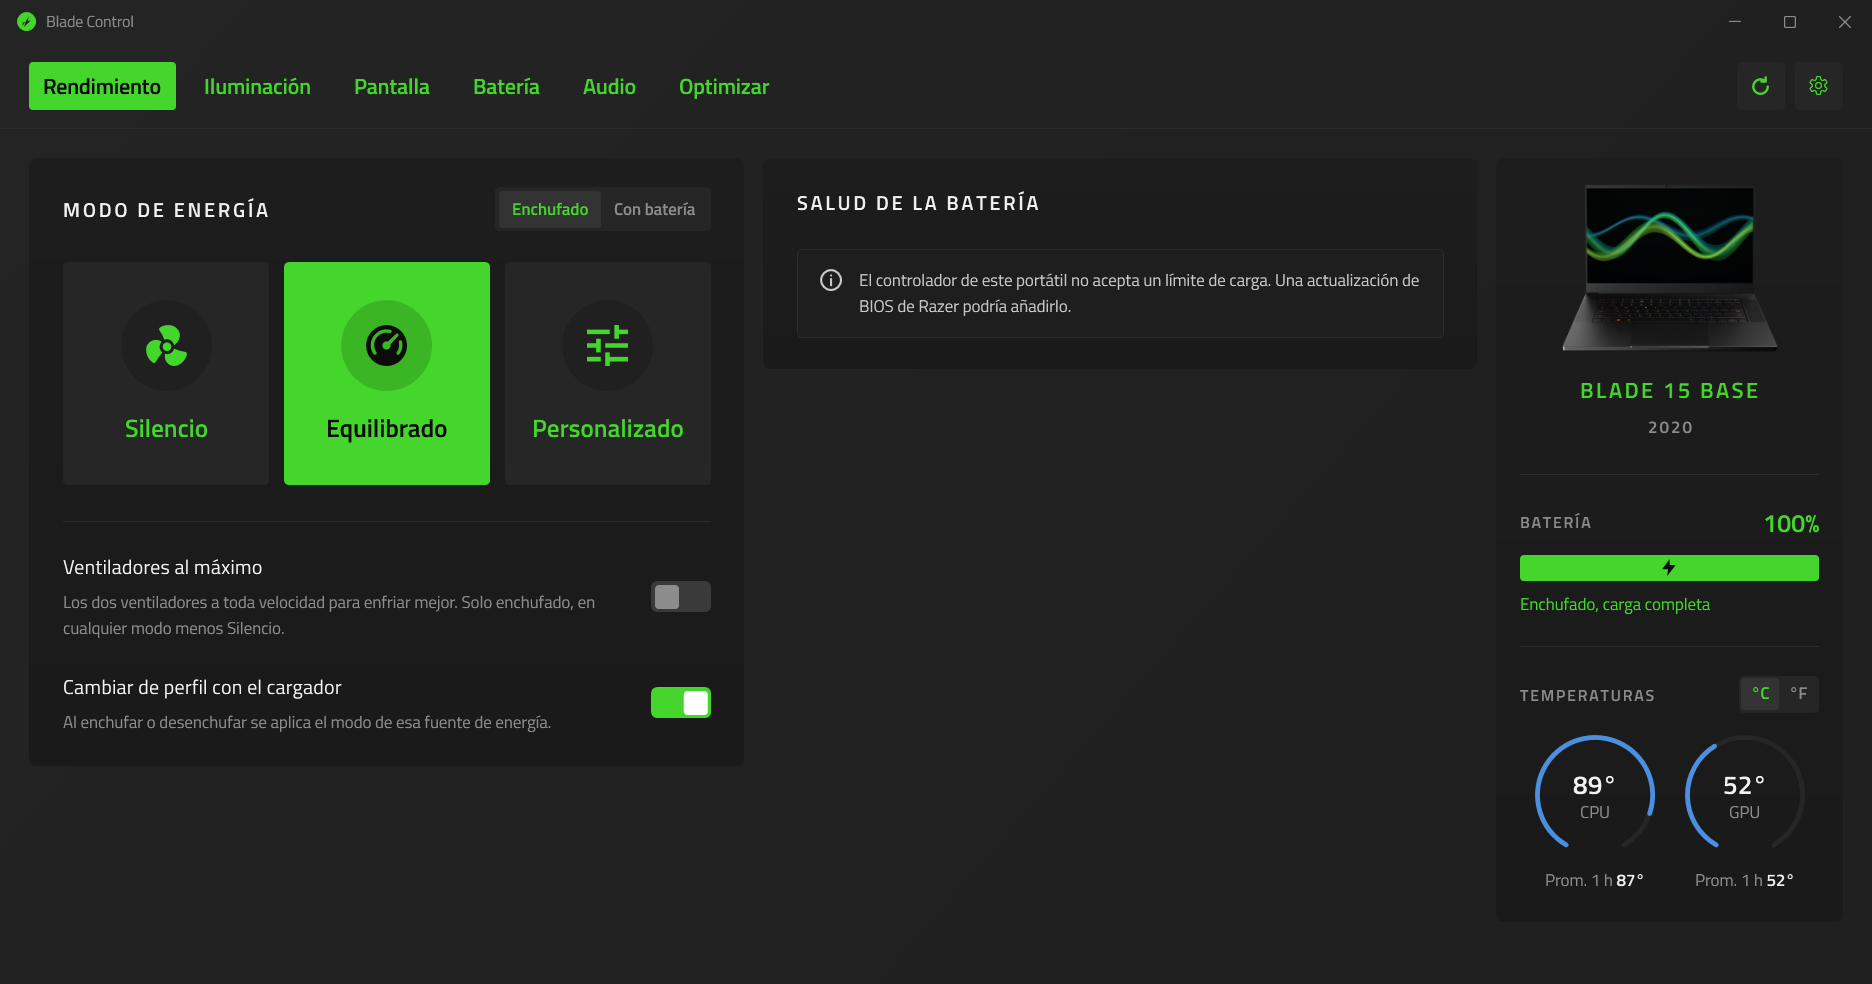
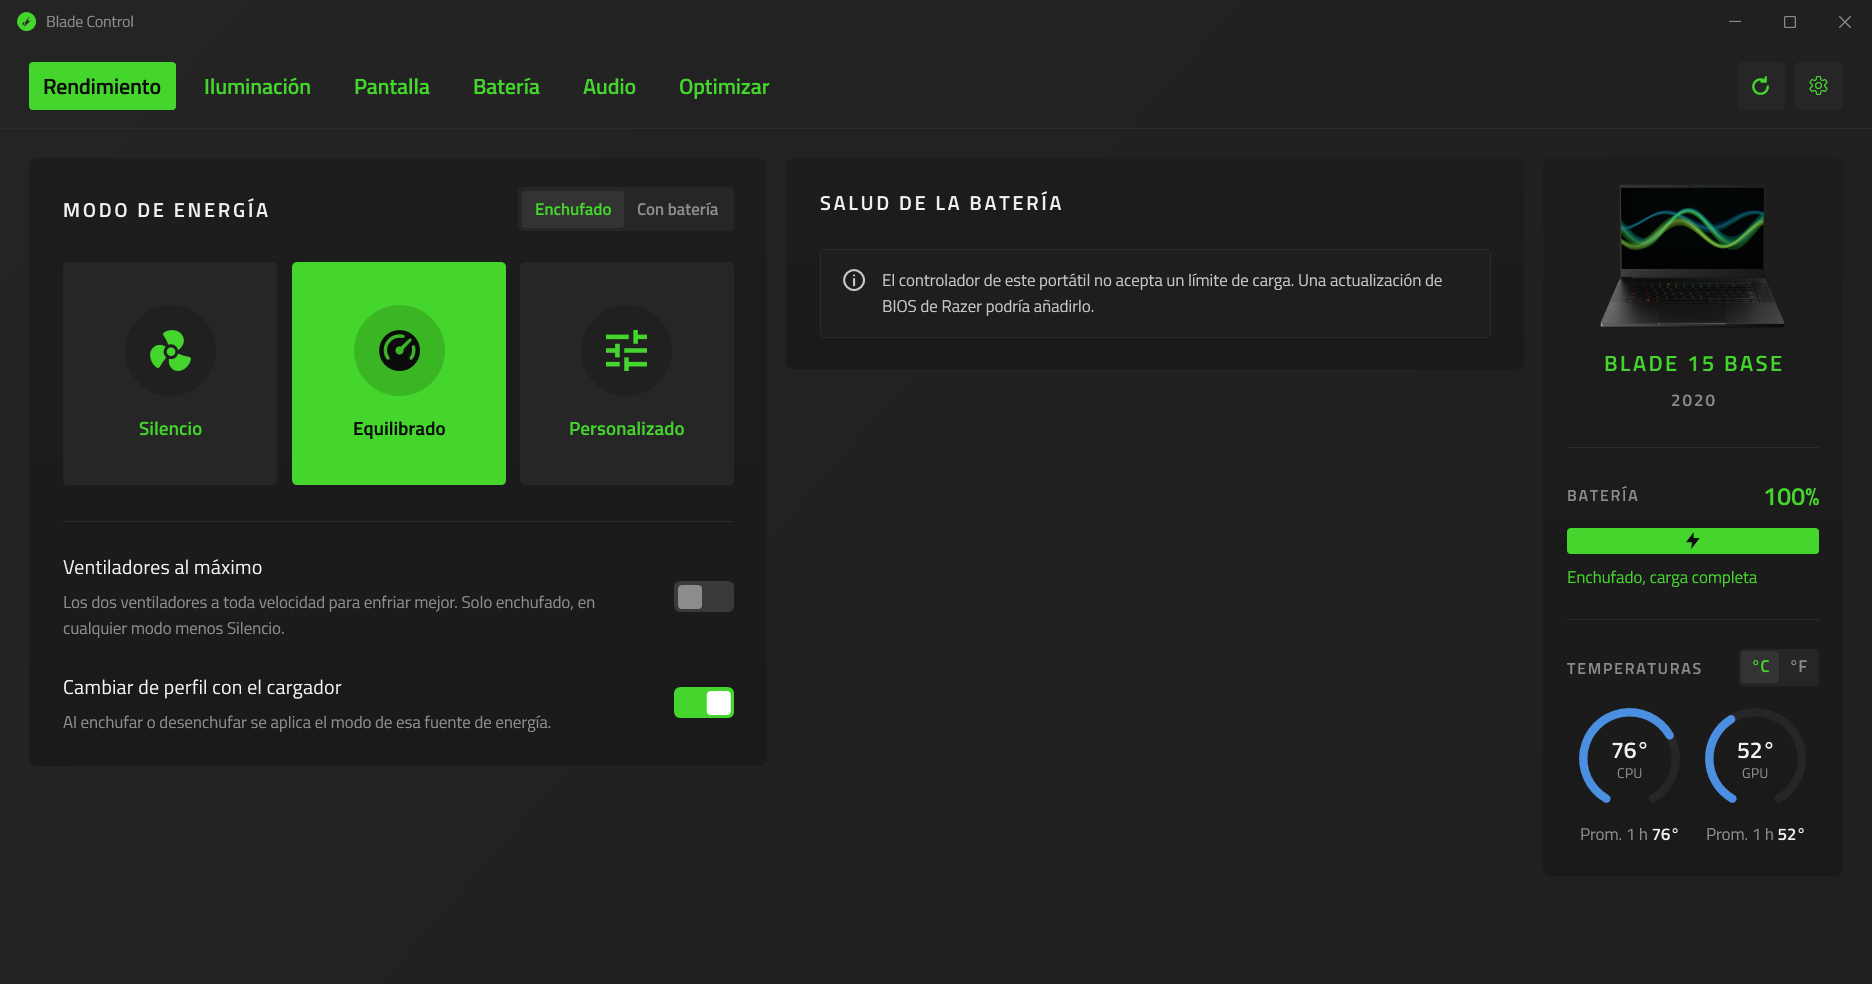
Sets the mode names at 16 px and slims the laptop's panel to 250 px
The window can no longer go below 1280 px, which leaves the three modes
room for their names at a fixed 16 px. The panel's picture shrinks with
it, and the temperature rings get smaller with a thicker stroke.

diff --git a/src/BladeControl/Views/DevicePanel.xaml b/src/BladeControl/Views/DevicePanel.xaml
@@ -6,7 +6,7 @@
     <!-- The laptop: its picture and name, temperatures, fans and battery. -->
     <Border Style="{StaticResource Card}" Padding="20,22,20,24">
         <StackPanel>
-            <Image Source="{Binding Picture}" Height="140" Margin="0,0,0,18" RenderOptions.BitmapScalingMode="HighQuality"
+            <Image Source="{Binding Picture}" Height="120" Margin="0,0,0,16" RenderOptions.BitmapScalingMode="HighQuality"
                    Visibility="{Binding HasPicture, Converter={StaticResource Visible}}" />
 
             <TextBlock Text="{Binding ModelTitle}" HorizontalAlignment="Center" FontSize="18" FontWeight="SemiBold"
@@ -53,11 +53,11 @@
 
             <UniformGrid Columns="2">
                 <StackPanel>
-                    <Grid Width="100" Height="100">
-                        <ui:RingGauge Fraction="{Binding CpuFraction}" Thickness="4" ArcBrush="{StaticResource Brush.Cool}" TrackBrush="{StaticResource Brush.Tile}" />
+                    <Grid Width="84" Height="84">
+                        <ui:RingGauge Fraction="{Binding CpuFraction}" Thickness="7" ArcBrush="{StaticResource Brush.Cool}" TrackBrush="{StaticResource Brush.Tile}" />
                         <StackPanel VerticalAlignment="Center">
-                            <TextBlock Text="{Binding CpuText}" FontSize="22" FontWeight="SemiBold" HorizontalAlignment="Center" />
-                            <TextBlock Text="CPU" FontSize="14" Foreground="{StaticResource Brush.TextMuted}" HorizontalAlignment="Center" Margin="0,-4,0,0" />
+                            <TextBlock Text="{Binding CpuText}" FontSize="19" FontWeight="SemiBold" HorizontalAlignment="Center" />
+                            <TextBlock Text="CPU" FontSize="12" Foreground="{StaticResource Brush.TextMuted}" HorizontalAlignment="Center" Margin="0,-4,0,0" />
                         </StackPanel>
                     </Grid>
                     <TextBlock HorizontalAlignment="Center" Margin="0,10,0,0" FontSize="14" Foreground="{StaticResource Brush.TextMuted}">
@@ -66,11 +66,11 @@
                     </TextBlock>
                 </StackPanel>
                 <StackPanel>
-                    <Grid Width="100" Height="100">
-                        <ui:RingGauge Fraction="{Binding GpuFraction}" Thickness="4" ArcBrush="{StaticResource Brush.Cool}" TrackBrush="{StaticResource Brush.Tile}" />
+                    <Grid Width="84" Height="84">
+                        <ui:RingGauge Fraction="{Binding GpuFraction}" Thickness="7" ArcBrush="{StaticResource Brush.Cool}" TrackBrush="{StaticResource Brush.Tile}" />
                         <StackPanel VerticalAlignment="Center">
-                            <TextBlock Text="{Binding GpuText}" FontSize="22" FontWeight="SemiBold" HorizontalAlignment="Center" />
-                            <TextBlock Text="GPU" FontSize="14" Foreground="{StaticResource Brush.TextMuted}" HorizontalAlignment="Center" Margin="0,-4,0,0" />
+                            <TextBlock Text="{Binding GpuText}" FontSize="19" FontWeight="SemiBold" HorizontalAlignment="Center" />
+                            <TextBlock Text="GPU" FontSize="12" Foreground="{StaticResource Brush.TextMuted}" HorizontalAlignment="Center" Margin="0,-4,0,0" />
                         </StackPanel>
                     </Grid>
                     <TextBlock HorizontalAlignment="Center" Margin="0,10,0,0" FontSize="14" Foreground="{StaticResource Brush.TextMuted}">

diff --git a/src/BladeControl/Themes/Controls.xaml b/src/BladeControl/Themes/Controls.xaml
@@ -321,7 +321,7 @@
     <!-- A performance mode: a tall tile with its icon in a disc above the name. Tag is the icon's geometry. -->
     <Style x:Key="ModeTile" TargetType="RadioButton" BasedOn="{StaticResource Tile}">
         <Setter Property="Height" Value="186" />
-        <Setter Property="FontSize" Value="21" />
+        <Setter Property="FontSize" Value="16" />
         <Setter Property="ContentTemplate">
             <Setter.Value>
                 <DataTemplate>
@@ -331,9 +331,7 @@
                             <Path Width="34" Height="34" Style="{StaticResource IconPath}"
                                   Data="{Binding Tag, RelativeSource={RelativeSource AncestorType=RadioButton}}" />
                         </Border>
-                        <!-- The three modes share one size, taken from the tile's width. -->
-                        <TextBlock Text="{Binding}" HorizontalAlignment="Center"
-                                   FontSize="{Binding ActualWidth, RelativeSource={RelativeSource AncestorType=RadioButton}, Converter={x:Static ui:WidthToFontSizeConverter.Instance}, ConverterParameter='8.2,14,21'}" />
+                        <TextBlock Text="{Binding}" HorizontalAlignment="Center" />
                     </StackPanel>
                 </DataTemplate>
             </Setter.Value>

diff --git a/src/BladeControl/Views/MainWindow.xaml b/src/BladeControl/Views/MainWindow.xaml
@@ -5,7 +5,7 @@
         xmlns:views="clr-namespace:BladeControl.Views"
         Title="Blade Control"
         Icon="pack://application:,,,/Assets/BladeControl.ico"
-        Width="1600" Height="1000" MinWidth="1180" MinHeight="700"
+        Width="1600" Height="1000" MinWidth="1280" MinHeight="700"
         WindowStartupLocation="CenterScreen"
         Background="{StaticResource Brush.Window}"
         Foreground="{StaticResource Brush.Text}"
@@ -98,7 +98,7 @@
                 <Grid.ColumnDefinitions>
                     <ColumnDefinition Width="*" />
                     <ColumnDefinition Width="16" />
-                    <ColumnDefinition Width="290" />
+                    <ColumnDefinition Width="250" />
                 </Grid.ColumnDefinitions>
 
                 <views:PerformanceView DataContext="{Binding Performance}"

diff --git a/src/BladeControl/UI/UiHelpers.cs b/src/BladeControl/UI/UiHelpers.cs
@@ -35,27 +35,6 @@ public sealed class FractionWidthConverter : IMultiValueConverter
         throw new NotSupportedException();
 }
 
-/// <summary>
-/// A font size that follows a width: the width divided by the first number of
-/// the parameter, kept between its other two ("8,14,21": width / 8, from 14 to
-/// 21). Tiles of the same width get the same size, so a row of them stays even
-/// as the window narrows.
-/// </summary>
-public sealed class WidthToFontSizeConverter : IValueConverter
-{
-    public static WidthToFontSizeConverter Instance { get; } = new();
-
-    public object Convert(object value, Type targetType, object? parameter, CultureInfo culture)
-    {
-        var parts = (parameter as string ?? "8,14,21").Split(',').Select(part => double.Parse(part, CultureInfo.InvariantCulture)).ToArray();
-        var width = value is double number && number > 0 ? number : double.MaxValue;
-        return Math.Clamp(width / parts[0], parts[1], parts[2]);
-    }
-
-    public object ConvertBack(object value, Type targetType, object? parameter, CultureInfo culture) =>
-        throw new NotSupportedException();
-}
-
 /// <summary>True hides, false shows: the other side of BooleanToVisibilityConverter.</summary>
 public sealed class InverseVisibilityConverter : IValueConverter
 {
